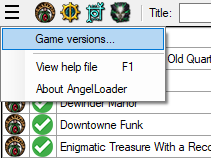
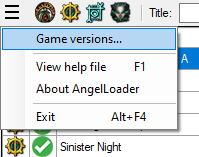
Update doc

diff --git a/doc/AngelLoader documentation.html b/doc/AngelLoader documentation.html
@@ -470,6 +470,9 @@ For extra-strength misclick prevention, enable this. You will still be able to i
 <h4>Hide FM list zoom buttons</h4>
 Since you can zoom the FMs list with the keyboard or Ctrl+mousewheel, you can hide these buttons to free up room.
 
+<h4>Hide exit button</h4>
+Allows you to show or hide an Exit button in the bottom-right corner of the main window, similar to FMSel.
+
 <h4>Use a fixed-width font when displaying plain text</h4>
 Some readmes may look better when displayed in a fixed-width font. This option only applies to plain text readme files; other file types will use their own fonts. This behavior matches DarkLoader.
 
